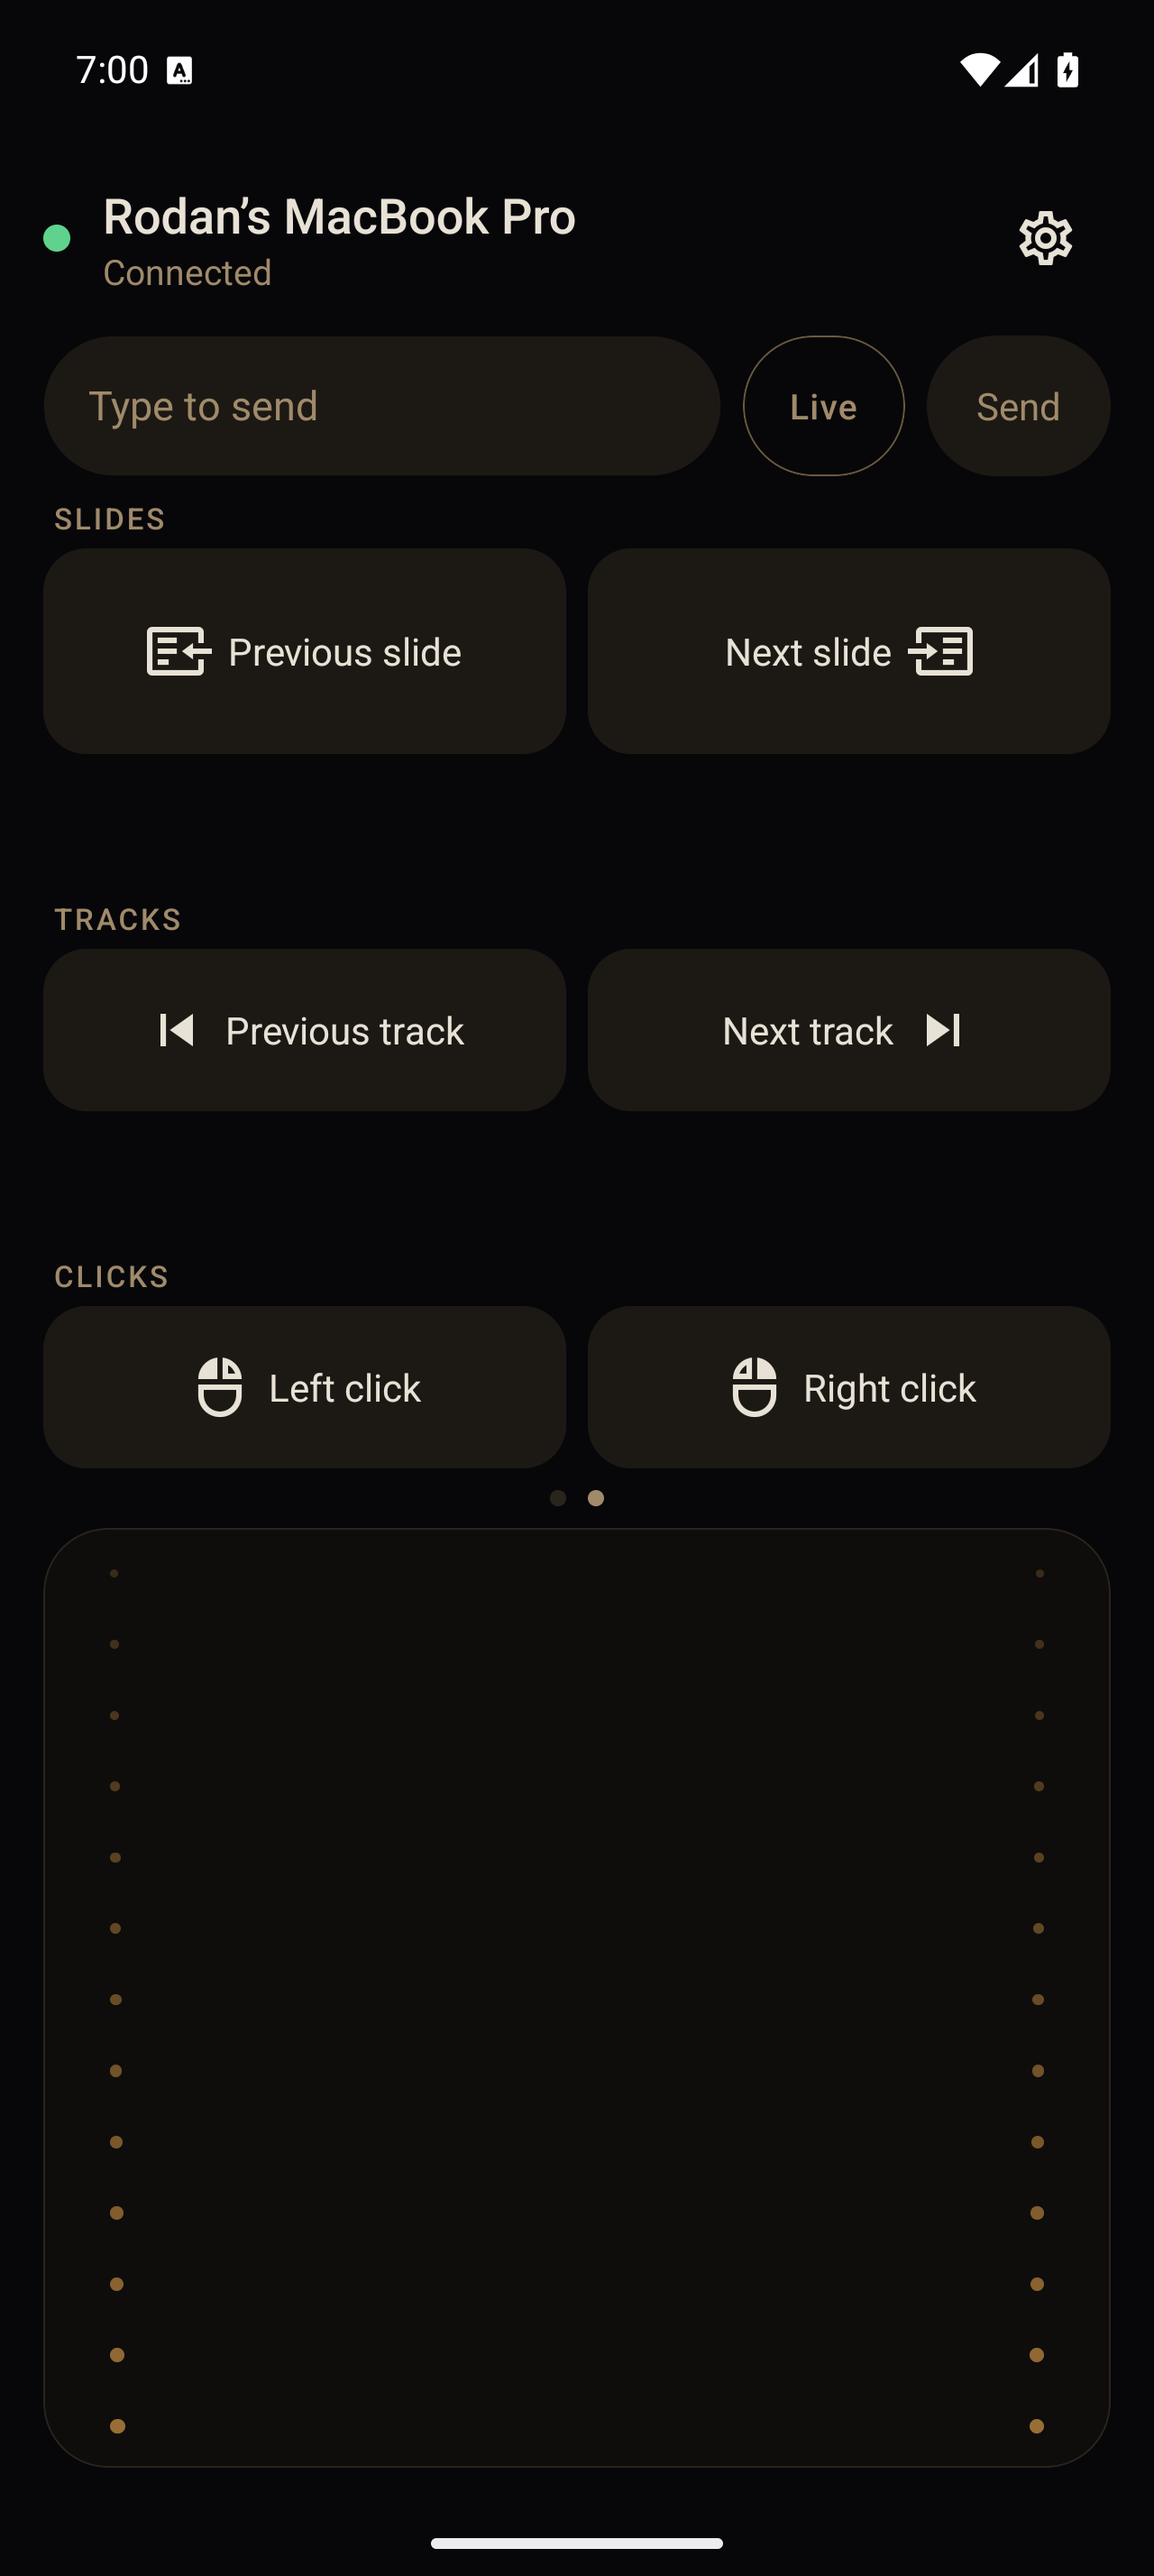
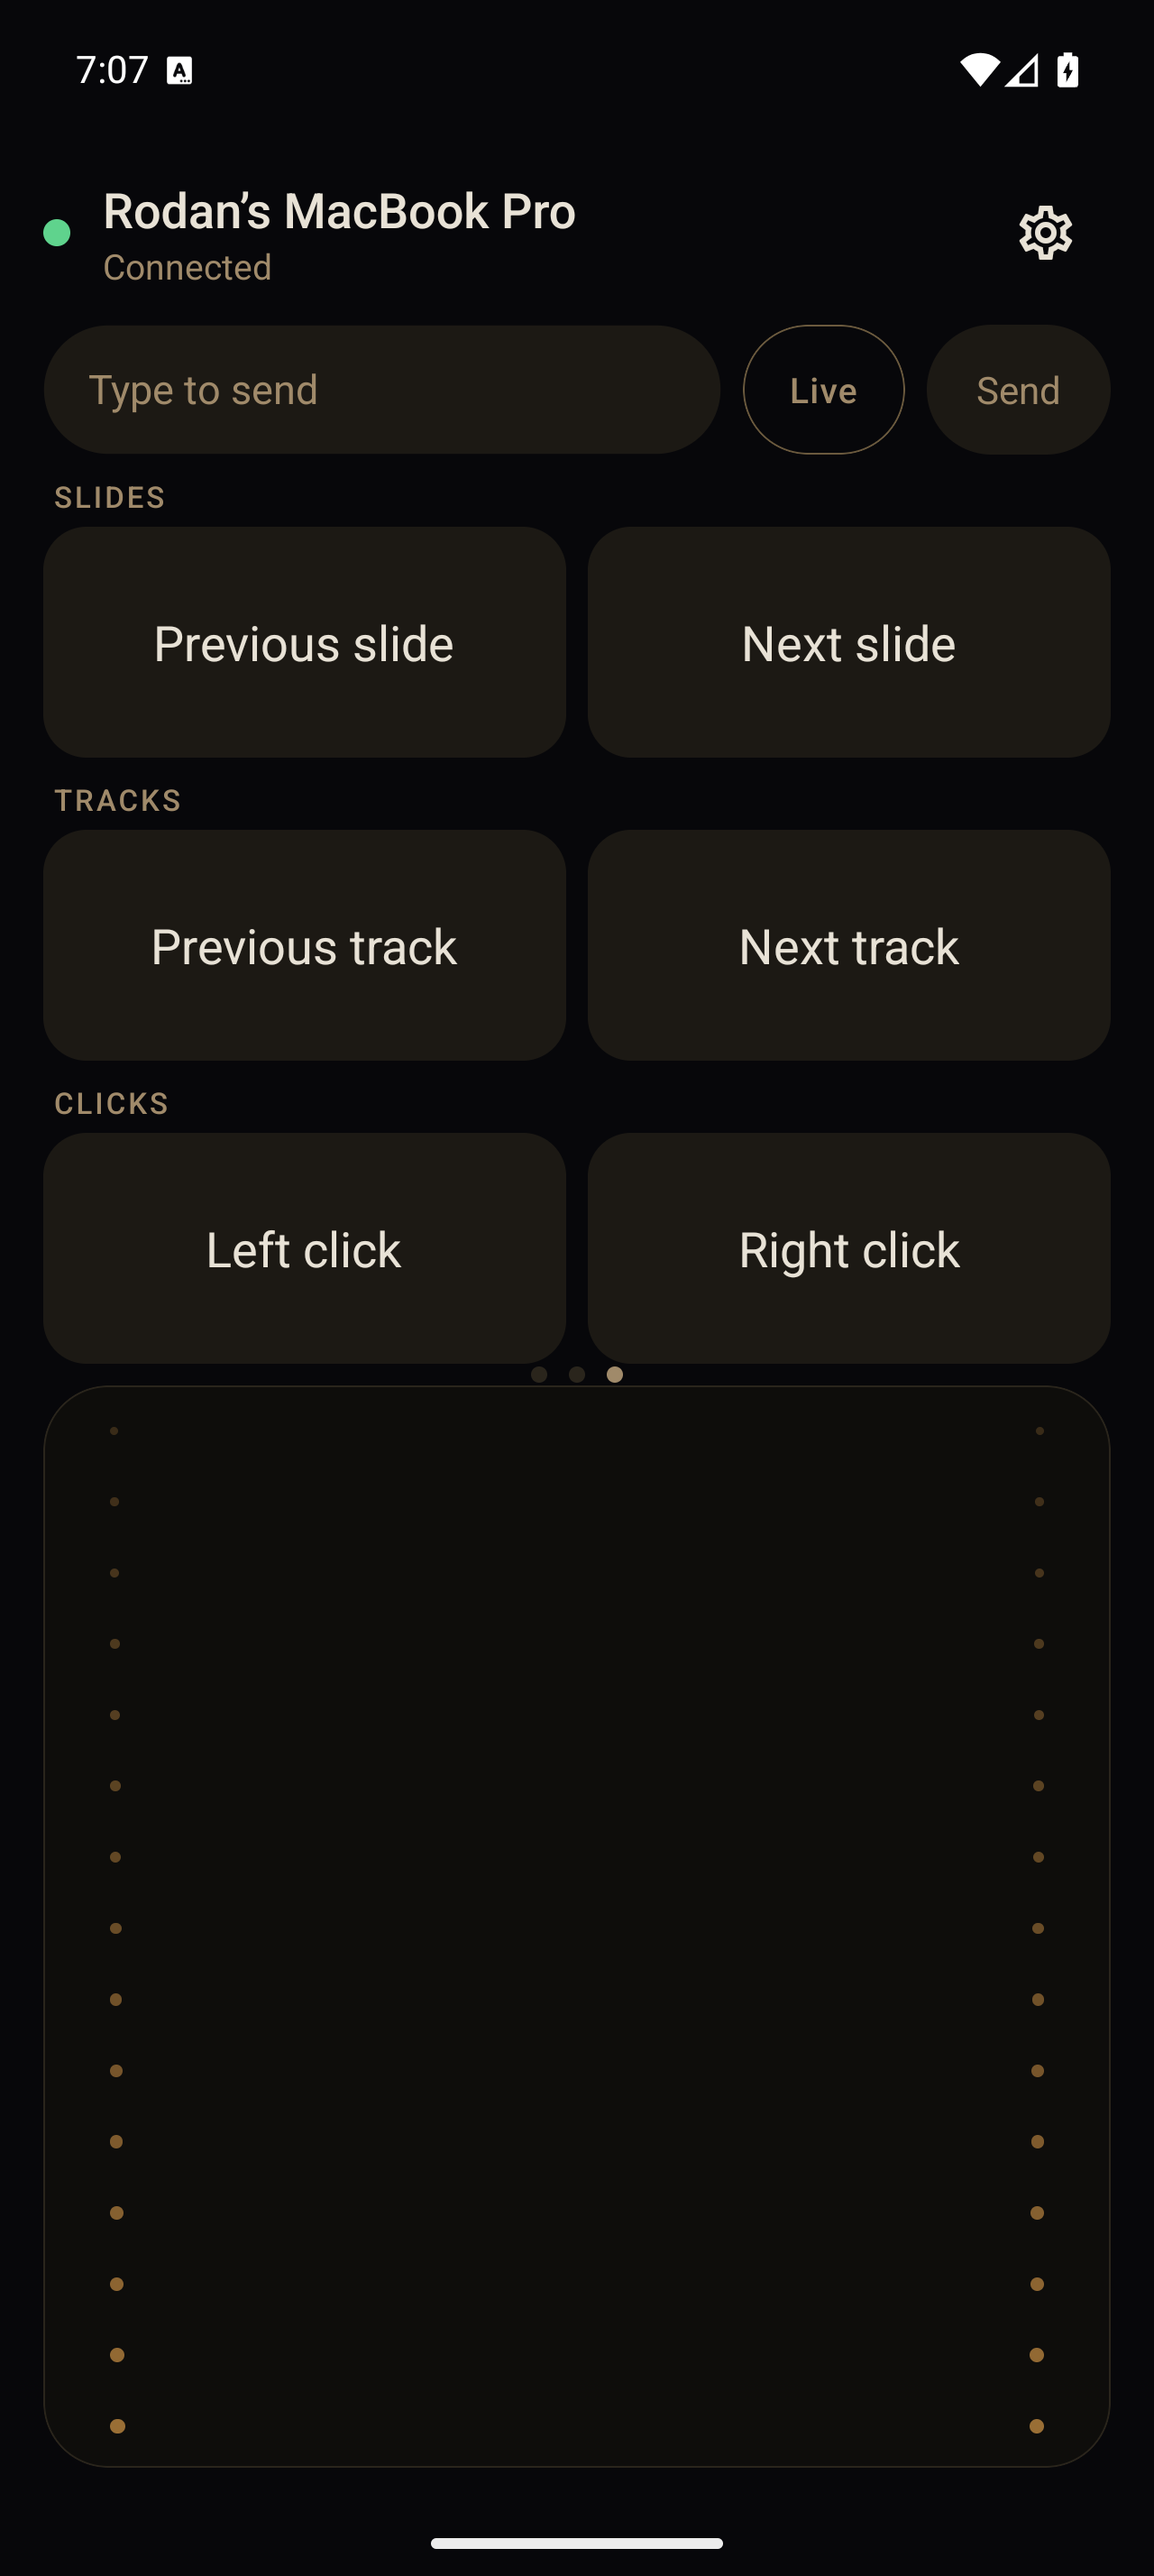
feat(app): three pages (Main, Browser, More); calmer main keys; consistent sizes
- Main page is icons only again; Browser keys get their own page with six equal text-only
  keys at one text size; More page rows are equal and fill the height.
- Close tab is a plain tap (the hold gesture read as 'not working').
- Compact layout gives the trackpad more height; page dots no longer clipped.

Claude-Session: https://claude.ai/code/session_01GjmifBaFruAr4AHSmS1LiQ

diff --git a/app/src/ui/Key.tsx b/app/src/ui/Key.tsx
@@ -14,17 +14,17 @@ export interface KeyProps {
   iconAfter?: boolean;
   /** Short visible text, used with or instead of an icon. */
   text?: string;
+  /** Text size in sp. Every key on a page uses the same size. */
+  textSize?: number;
   onPress: () => void;
   /** The one lead action on the screen: amber. */
   lead?: boolean;
   /** Repeat while held (volume). */
   repeat?: boolean;
-  /** Needs a deliberate hold (Close tab): fires after this many ms. */
-  holdMs?: number;
   flex?: number;
   height?: number;
   round?: boolean;
-  /** Unfilled, outlined in the danger colour (Close tab). */
+  /** Unfilled, outlined in the danger colour (Close tab), so it stays easy to tell apart. */
   danger?: boolean;
   style?: StyleProp<ViewStyle>;
 }
@@ -32,7 +32,7 @@ export interface KeyProps {
 const REPEAT_DELAY = 350;
 const REPEAT_EVERY = 110;
 
-export function Key({ label, icon, iconAfter, text, onPress, lead, repeat, holdMs, flex = 1, height = 52, round, danger, style }: KeyProps) {
+export function Key({ label, icon, iconAfter, text, textSize = 13, onPress, lead, repeat, flex = 1, height = 48, round, danger, style }: KeyProps) {
   const timer = useRef<ReturnType<typeof setTimeout> | ReturnType<typeof setInterval> | null>(null);
   const stop = () => {
     if (timer.current !== null) {
@@ -54,10 +54,7 @@ export function Key({ label, icon, iconAfter, text, onPress, lead, repeat, holdM
     <Pressable
       accessibilityRole="button"
       accessibilityLabel={label}
-      accessibilityHint={holdMs ? 'Press and hold' : undefined}
-      onPress={holdMs || repeat ? undefined : fire}
-      onLongPress={holdMs ? fire : undefined}
-      delayLongPress={holdMs}
+      onPress={repeat ? undefined : fire}
       onPressIn={
         repeat
           ? () => {
@@ -79,12 +76,7 @@ export function Key({ label, icon, iconAfter, text, onPress, lead, repeat, holdM
     >
       {icon && !iconAfter ? glyph : null}
       {text ? (
-        <Text
-          style={[s.text, lead && { color: color.onAmber }, danger && { color: color.danger }]}
-          numberOfLines={1}
-          adjustsFontSizeToFit
-          minimumFontScale={0.75}
-        >
+        <Text style={[s.text, { fontSize: textSize }, lead && { color: color.onAmber }, danger && { color: color.danger }]} numberOfLines={2}>
           {text}
         </Text>
       ) : null}
@@ -101,5 +93,5 @@ const s = StyleSheet.create({
   pressed: { backgroundColor: color.surfacePressed },
   lead: { backgroundColor: color.amber },
   leadPressed: { backgroundColor: '#e89f3e' },
-  text: { ...t.body, fontSize: 14, flexShrink: 1 },
+  text: { ...t.body, flexShrink: 1, textAlign: 'center' },
 });

diff --git a/app/src/ui/MorePage.tsx b/app/src/ui/MorePage.tsx
@@ -17,22 +17,22 @@ export function MorePage({ send }: { send: (m: Message) => void }) {
   const click = (button: 'left' | 'right') => () => send({ type: 'click', button, count: 1 });
   return (
     <View style={s.page}>
-      <Group title="SLIDES">
+      <Group title="SLIDES" flex={1}>
         <View style={s.row}>
-          <Key label="Previous slide" icon="page-previous-outline" text="Previous slide" height={76} onPress={key('page_up')} />
-          <Key label="Next slide" icon="page-next-outline" iconAfter text="Next slide" height={76} onPress={key('page_down')} />
+          <Key label="Previous slide" text="Previous slide" textSize={18} height={48} onPress={key('page_up')} />
+          <Key label="Next slide" text="Next slide" textSize={18} height={48} onPress={key('page_down')} />
         </View>
       </Group>
-      <Group title="TRACKS">
+      <Group title="TRACKS" flex={1}>
         <View style={s.row}>
-          <Key label="Previous track" icon="skip-previous" text="Previous track" height={60} onPress={media('prev')} />
-          <Key label="Next track" icon="skip-next" iconAfter text="Next track" height={60} onPress={media('next')} />
+          <Key label="Previous track" text="Previous track" textSize={18} height={48} onPress={media('prev')} />
+          <Key label="Next track" text="Next track" textSize={18} height={48} onPress={media('next')} />
         </View>
       </Group>
-      <Group title="CLICKS">
+      <Group title="CLICKS" flex={1}>
         <View style={s.row}>
-          <Key label="Left click" icon="mouse-left-click-outline" text="Left click" height={60} onPress={click('left')} />
-          <Key label="Right click" icon="mouse-right-click-outline" text="Right click" height={60} onPress={click('right')} />
+          <Key label="Left click" text="Left click" textSize={18} height={48} onPress={click('left')} />
+          <Key label="Right click" text="Right click" textSize={18} height={48} onPress={click('right')} />
         </View>
       </Group>
     </View>
@@ -40,7 +40,7 @@ export function MorePage({ send }: { send: (m: Message) => void }) {
 }
 
 const s = StyleSheet.create({
-  // Fills the pager's height and spreads the groups evenly, so the page never looks empty.
-  page: { flex: 1, justifyContent: 'space-between', gap: space.s },
-  row: { flexDirection: 'row', gap: space.s },
+  // Fills the pager's height: the keys stretch to fit, so there are no empty gaps.
+  page: { flex: 1, gap: space.s },
+  row: { flex: 1, flexDirection: 'row', gap: space.s },
 });

diff --git a/app/src/ui/BrowserPage.tsx b/app/src/ui/BrowserPage.tsx
@@ -1,0 +1,35 @@
+import { StyleSheet, View } from 'react-native';
+import type { Message } from '../protocol';
+import { space } from '../theme';
+import { Key } from './Key';
+
+const SIZE = 18; // one text size for every key on this page (matches the More page)
+
+/**
+ * The Browser page: six big keys with only words on them (no icons), so nothing can be mistaken
+ * for the arrow keys on the main page. Close tab is outlined in red but is a plain tap like the rest.
+ */
+export function BrowserPage({ send }: { send: (m: Message) => void }) {
+  const browser = (action: 'back' | 'forward' | 'reload' | 'prev_tab' | 'next_tab' | 'close_tab') => () => send({ type: 'browser', action });
+  return (
+    <View style={s.page}>
+      <View style={s.row}>
+        <Key label="Browser back" text="Back" textSize={SIZE} onPress={browser('back')} />
+        <Key label="Browser forward" text="Forward" textSize={SIZE} onPress={browser('forward')} />
+      </View>
+      <View style={s.row}>
+        <Key label="Reload page" text="Reload" textSize={SIZE} onPress={browser('reload')} />
+        <Key label="Close tab" text="Close tab" textSize={SIZE} danger onPress={browser('close_tab')} />
+      </View>
+      <View style={s.row}>
+        <Key label="Previous tab" text="Previous tab" textSize={SIZE} onPress={browser('prev_tab')} />
+        <Key label="Next tab" text="Next tab" textSize={SIZE} onPress={browser('next_tab')} />
+      </View>
+    </View>
+  );
+}
+
+const s = StyleSheet.create({
+  page: { flex: 1, gap: space.s },
+  row: { flex: 1, flexDirection: 'row', gap: space.s },
+});

diff --git a/app/App.tsx b/app/App.tsx
@@ -9,7 +9,7 @@ import { clearPairing, loadOrCreatePhoneKeys, loadPairing, loadSettings, saveSet
 import { color, space } from './src/theme';
 import { DEFAULT_POINTER, type PointerSettings } from './src/trackpad/pointer';
 import { useRemote } from './src/useRemote';
-import { BrowserBlock } from './src/ui/BrowserRow';
+import { BrowserPage } from './src/ui/BrowserPage';
 import { Dpad } from './src/ui/Dpad';
 import { KeyboardBar } from './src/ui/KeyboardBar';
 import { MediaDeck } from './src/ui/MediaDeck';
@@ -72,9 +72,9 @@ function Remote({ boot, onForget }: { boot: Boot; onForget: () => void }) {
                       <MediaDeck send={send} active={usable} />
                       <View style={s.row}>
                         <Dpad send={send} />
-                        <BrowserBlock send={send} />
                       </View>
                     </View>,
+                    <BrowserPage key="browser" send={send} />,
                     <MorePage key="more" send={send} />,
                   ]}
                 />
@@ -136,5 +136,5 @@ const s = StyleSheet.create({
   controls: { gap: space.s },
   page: { gap: space.s },
   dim: { opacity: 0.5 },
-  row: { flexDirection: 'row', gap: space.m, alignItems: 'flex-end' },
+  row: { flexDirection: 'row', justifyContent: 'center' },
 });

diff --git a/app/src/ui/Pager.tsx b/app/src/ui/Pager.tsx
@@ -51,7 +51,8 @@ export function Pager({ pages }: { pages: React.ReactNode[] }) {
 
 const s = StyleSheet.create({
   fill: { flex: 1 },
-  dots: { flexDirection: 'row', justifyContent: 'center', gap: space.s, paddingTop: space.s },
+  // 6 dp dots centred in the 8 dp gap above the trackpad, so they cost no height.
+  dots: { position: 'absolute', left: 0, right: 0, bottom: -7, flexDirection: 'row', justifyContent: 'center', gap: space.s },
   dot: { width: 6, height: 6, borderRadius: 3, backgroundColor: color.hairline },
   dotActive: { backgroundColor: color.textMuted },
 });

diff --git a/app/src/ui/StatusHeader.tsx b/app/src/ui/StatusHeader.tsx
@@ -105,7 +105,7 @@ const c = StyleSheet.create({
 });
 
 const s = StyleSheet.create({
-  header: { flexDirection: 'row', alignItems: 'center', gap: space.s, minHeight: 56 },
+  header: { flexDirection: 'row', alignItems: 'center', gap: space.s, minHeight: 52 },
   status: { flex: 1, flexDirection: 'row', alignItems: 'center', gap: space.s + 4, minHeight: TARGET },
   chip: { minHeight: 36, paddingHorizontal: space.m - 4, borderRadius: 18, justifyContent: 'center', backgroundColor: color.surface },
   chipText: { ...t.body, fontSize: 13, textTransform: 'capitalize' },

diff --git a/app/src/ui/KeyboardBar.tsx b/app/src/ui/KeyboardBar.tsx
@@ -104,7 +104,7 @@ export function KeyboardBar({ send, onTyping }: Props) {
   );
 }
 
-const H = 52; // one height for the field, Live and Send
+const H = 48; // one height for the field, Live and Send
 const s = StyleSheet.create({
   bar: { flexDirection: 'row', gap: space.s, alignItems: 'center' },
   field: { flex: 1, height: H, borderRadius: H / 2, backgroundColor: color.surface, borderWidth: StyleSheet.hairlineWidth * 2, borderColor: 'transparent', paddingHorizontal: space.m, ...t.body },

diff --git a/app/src/ui/Group.tsx b/app/src/ui/Group.tsx
@@ -8,7 +8,7 @@ export function Group({ title, children, flex }: { title: string; children: Reac
       <Text style={s.title} accessibilityRole="header">
         {title}
       </Text>
-      {children}
+      <View style={flex ? { flex: 1 } : undefined}>{children}</View>
     </View>
   );
 }

diff --git a/docs/design-brief.md b/docs/design-brief.md
@@ -48,6 +48,10 @@ Status-dot glow, idle animation of the lights, amber D-pad glyphs, always-amber 
 - Controlled tray icon is amber.
 
 ## Addendum (2026-11-20): owner feedback from the first real-phone test
-- Browser keys now carry words (Back, Forward, Reload, Close tab, Tab, Tab) under a small BROWSER title, so they cannot be confused with the D-pad arrows. Labels shrink to fit at large system font sizes.
-- Page 2 (swipe left; dots show the page): SLIDES (Previous / Next slide = Page Up / Page Down), TRACKS (Previous / Next track), CLICKS (Left / Right click). Settings lists the trackpad gestures.
+Three swipeable pages (dots above the trackpad show which one):
+- **Main:** the media deck and the D-pad, icons only. No words on the main keys (words made it noisy).
+- **Browser:** six equal, big, text-only keys (Back, Forward, Reload, Close tab, Previous tab, Next tab), one text size (18 sp) so none looks smaller. Close tab is outlined in red but is a plain tap like the others (a hold gesture was confusing and read as "not working").
+- **More:** SLIDES (Previous / Next slide = Page Up / Page Down), TRACKS (Previous / Next track), CLICKS (Left / Right click); equal rows, same text size, no gaps.
+- Settings lists the trackpad gestures.
+- Compact layout keeps the trackpad large: 48 dp keys, 52 dp header, page dots sit in the gap above the trackpad and cost no height.
 - Rule from the owner for adding anything: only simple, reliable actions. Deliberately NOT added: three-finger swipe shortcuts (OnePlus system gestures, accidental triggers), Mission Control (needs a new protocol command and depends on a macOS shortcut that may be off; revisit after a 30 s on-device check), a mouse Hold toggle (can desync), slide First/Last (inconsistent across apps), a Stop key (not available in enigo).
